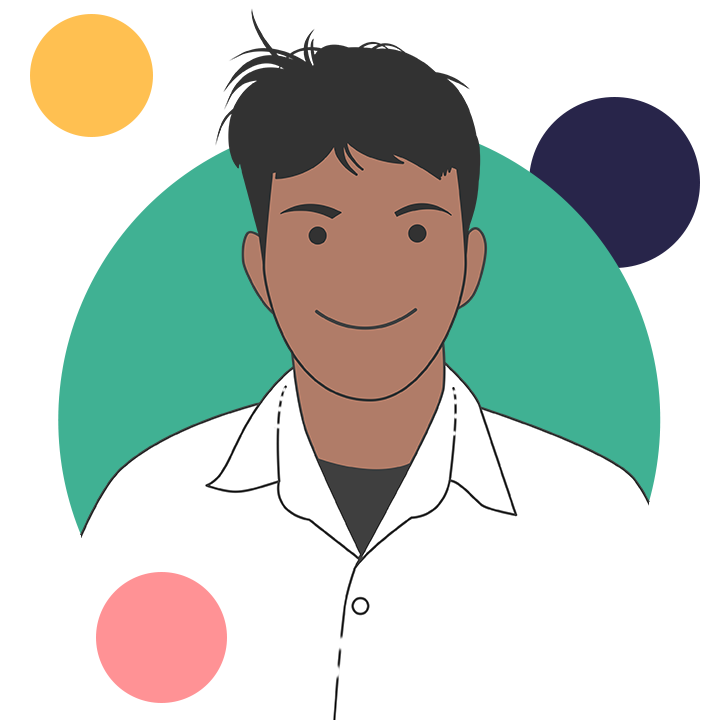
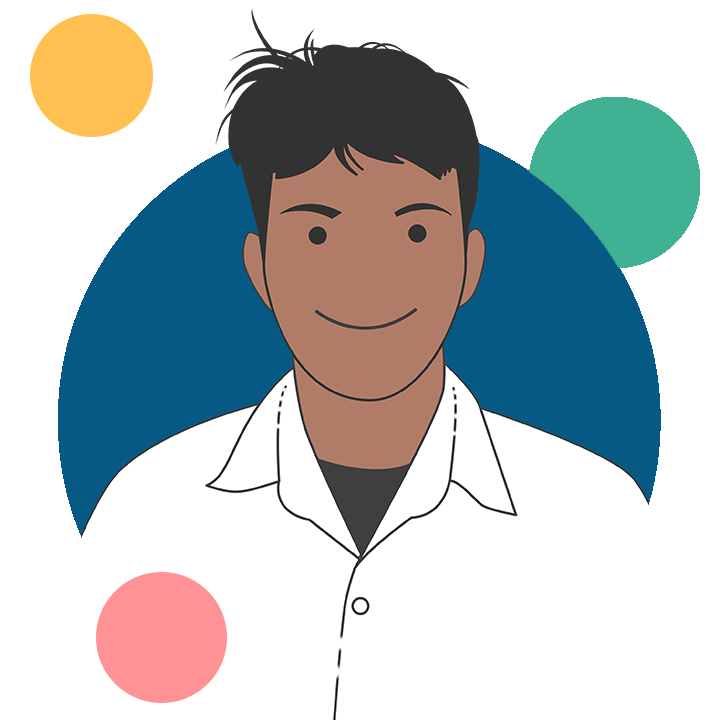
styles: change primary color to blue

Changed region(s): [[0.6111, 0.1222, 0.9778, 0.7028], [0.0611, 0.2139, 0.4278, 0.7333]]

diff --git a/src/app/globals.css b/src/app/globals.css
@@ -3,11 +3,18 @@
 } */
 /* global */
 :root {
-  --bs-primary: #40b193 !important;
+  --bs-primary: #075985 !important;
+  --bs-primary-hover: #164e63 !important;
+  --bs-primary-rgb: 7, 89, 133 !important;
+  --bs-primary-light: #e0f2fe !important;
+  --bs-primary-light-rgb: 224, 242, 254 !important;
+  --bs-primary-filter: brightness(0) saturate(100%) invert(23%) sepia(83%)
+    saturate(1483%) hue-rotate(177deg) brightness(88%) contrast(94%);
+  /* --bs-primary: #40b193 !important;
   --bs-primary-hover: #3a947c !important;
   --bs-primary-rgb: 64, 177, 147 !important;
   --bs-primary-light: #f2fffc !important;
-  --bs-primary-light-rgb: 242, 255, 252 !important;
+  --bs-primary-light-rgb: 242, 255, 252 !important; */
   --bs-default-primary: #0d6efd !important;
   --bs-default-primary-rgb: 13, 110, 253 !important;
   /* --bs-accent: #ffc051 !important; */
@@ -256,8 +263,7 @@ ul li {
 }
 
 .hero .features .feature .feature-icon img {
-  filter: invert(56%) sepia(44%) saturate(500%) hue-rotate(114deg)
-    brightness(97%) contrast(92%);
+  filter: var(--bs-primary-filter);
   width: 40px;
   height: 40px;
 }
@@ -319,6 +325,9 @@ ul li {
   padding-top: 10rem;
   background: #fff;
 }
+.personal-info img {
+  filter: var(--bs-primary-filter);
+}
 
 @media (max-width: 991px) {
   .personal-info {
@@ -366,8 +375,7 @@ ul li {
 }
 
 .education .education-item .education-item-icon img {
-  filter: invert(56%) sepia(44%) saturate(500%) hue-rotate(114deg)
-    brightness(97%) contrast(92%);
+  filter: var(--bs-primary-filter);
   margin: 0 auto;
   padding: 1rem;
   height: 70px;
@@ -894,11 +902,16 @@ ul li {
 }
 
 .side-project .side-project-item .side-project-img-wrapper {
+  aspect-ratio: 1080 / 607;
   display: block;
   position: relative;
   overflow: hidden;
   border-radius: 0.5rem;
   border: 1px solid rgba(0, 0, 0, 0.1);
+}
+.side-project .side-project-item .side-project-img-wrapper img {
+  width: 100%;
+  height: 100%;
 }
 
 .side-project .side-project-item .side-project-img-wrapper .overlay {
@@ -1898,7 +1911,7 @@ ul li {
 footer .top {
   color: #fff;
   padding: 3rem 1rem;
-  background-color: #1d6955;
+  background-color: var(--bs-primary);
 }
 
 footer .top h5 {
@@ -1925,7 +1938,7 @@ footer .top .social-medias ul li {
 
 footer .copyright {
   color: #fff;
-  background-color: #185242;
+  background-color: #0c4a6e;
   padding: 1rem;
   text-align: center;
   font-size: 14px;

diff --git a/src/sections/side-project/side-project-item.tsx b/src/sections/side-project/side-project-item.tsx
@@ -29,19 +29,29 @@ export const SideProjectItem = ({
   desc = translates?.find(({ lang }) => lang === i18n.language)?.desc ?? desc!;
   return (
     <div className="col-xl-4 col-md-6 side-project-item" data-aos="fade-up">
-      {href ? (
-        <div className="side-project-img-wrapper">
-          <div className="overlay">
-            <Link
-              href={href}
-              target="_blank"
-              rel="noopener noreferrer"
-              className="btn btn-sm btn-open"
-            >
-              {capitalize(t('see'))}{' '}
-              <i className="bi bi-box-arrow-up-right ms-2"></i>
-            </Link>
-          </div>
+      <div className="side-project-img-wrapper">
+        {href ? (
+          <>
+            <div className="overlay">
+              <Link
+                href={href}
+                target="_blank"
+                rel="noopener noreferrer"
+                className="btn btn-sm btn-open"
+              >
+                {capitalize(t('see'))}{' '}
+                <i className="bi bi-box-arrow-up-right ms-2"></i>
+              </Link>
+            </div>
+            <Image
+              src={img}
+              className="side-project-img"
+              alt={title}
+              width={1080}
+              height={1080}
+            />
+          </>
+        ) : (
           <Image
             src={img}
             className="side-project-img"
@@ -49,16 +59,9 @@ export const SideProjectItem = ({
             width={1080}
             height={1080}
           />
-        </div>
-      ) : (
-        <Image
-          src={img}
-          className="side-project-img"
-          alt={title}
-          width={1080}
-          height={1080}
-        />
-      )}
+        )}
+      </div>
+
       <div className="side-project-text">
         {href ? (
           <Link

diff --git a/src/app/layout.tsx b/src/app/layout.tsx
@@ -33,7 +33,8 @@ export const commonMetaData = {
 export const metadata: Metadata = {
   title: `${APP_NAME} - Web Portfolio`,
   description: 'Irsyad Abdul Hamid Darussalam web portfolio',
-  themeColor: '#40b193',
+  // themeColor: '#40b193',
+  // themeColor: '#075985',
   metadataBase: new URL(BASE_URL),
   other: {
     'google-site-verification': '-204Rp6WHentTB7kMjizFhmMKYllQEah-eSEZ-SyG8A',

diff --git a/src/sections/portfolio/portfolio-item-2-loading.tsx b/src/sections/portfolio/portfolio-item-2-loading.tsx
@@ -8,7 +8,8 @@ export const PortfolioItem2Loading = ({ count = 6 }: { count: number }) => {
         <Placeholder animation="glow">
           <Placeholder
             style={{
-              height: '198px',
+              aspectRatio: '1080 / 607',
+              // height: '198px',
               borderRadius: '.75rem',
               marginBottom: '.5rem',
             }}

diff --git a/src/sections/portfolio/portfolio-item-2.module.css b/src/sections/portfolio/portfolio-item-2.module.css
@@ -9,7 +9,7 @@
   user-select: none;
   border: 1px solid rgba(0, 0, 0, 0.1);
   height: unset;
-  aspect-ratio: 16 / 9 !important;
+  aspect-ratio: 1080 / 607;
 }
 
 .portfolio-item-2 .image .overlay {
